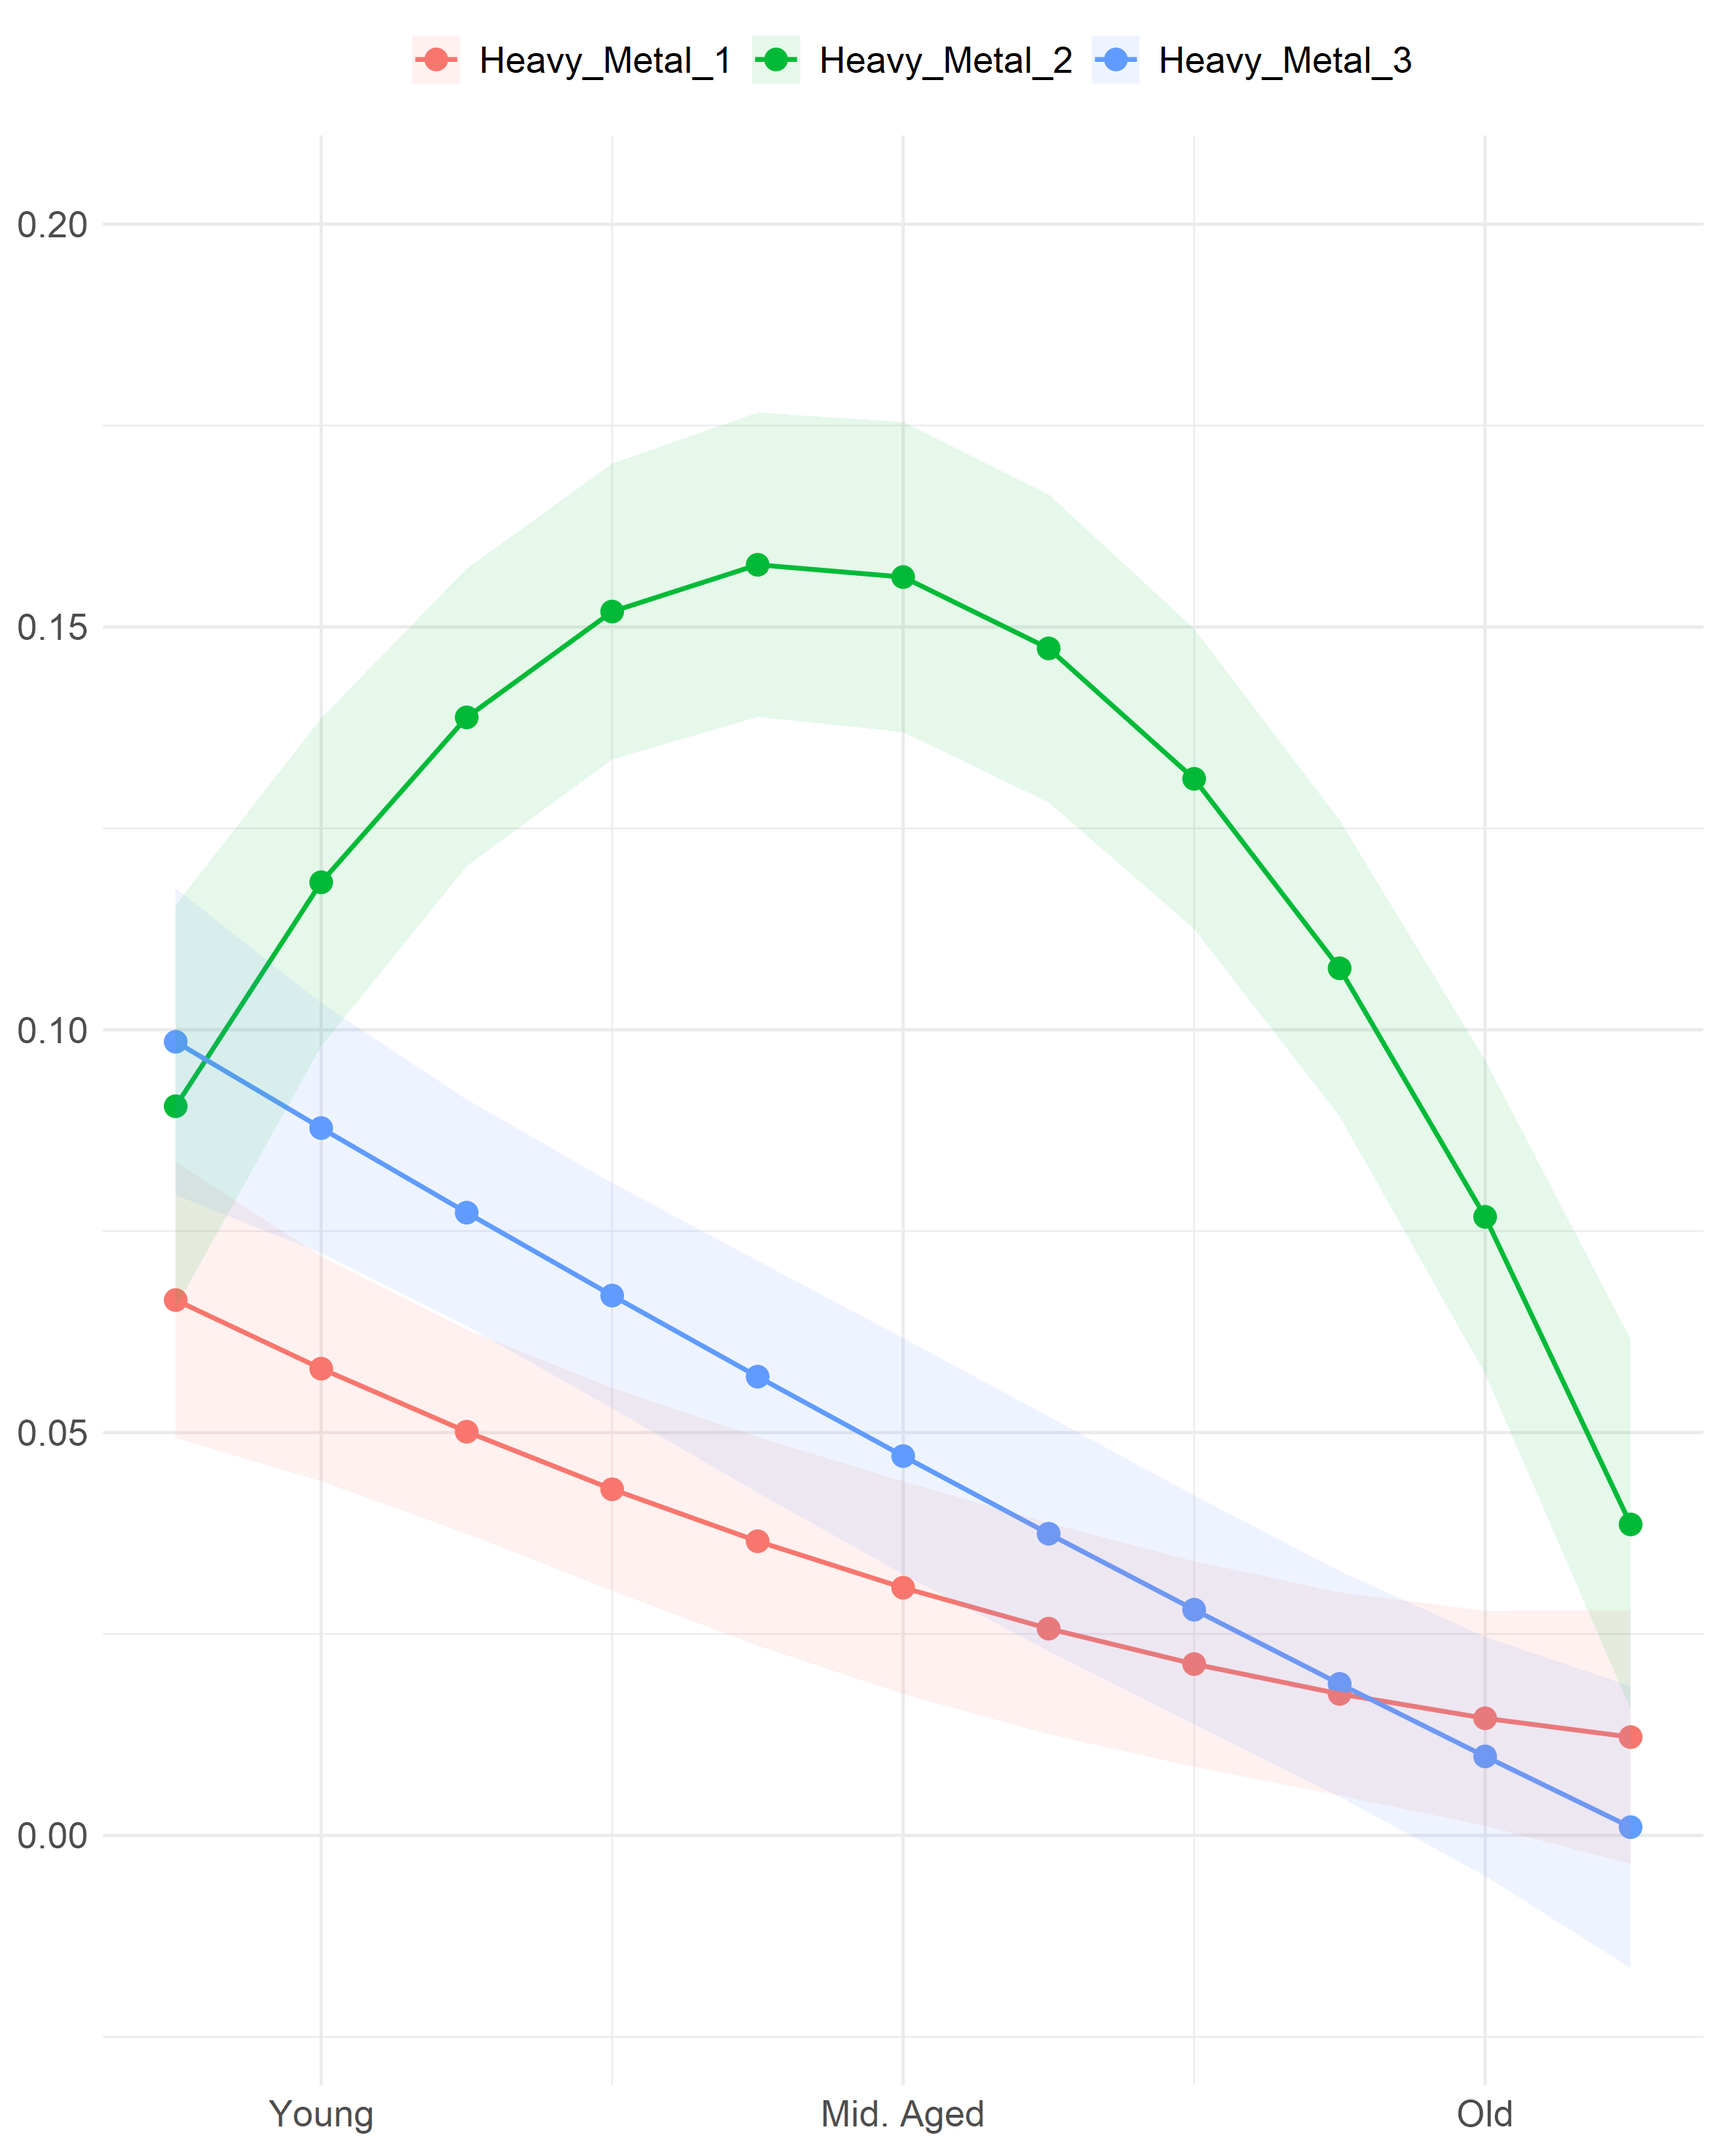
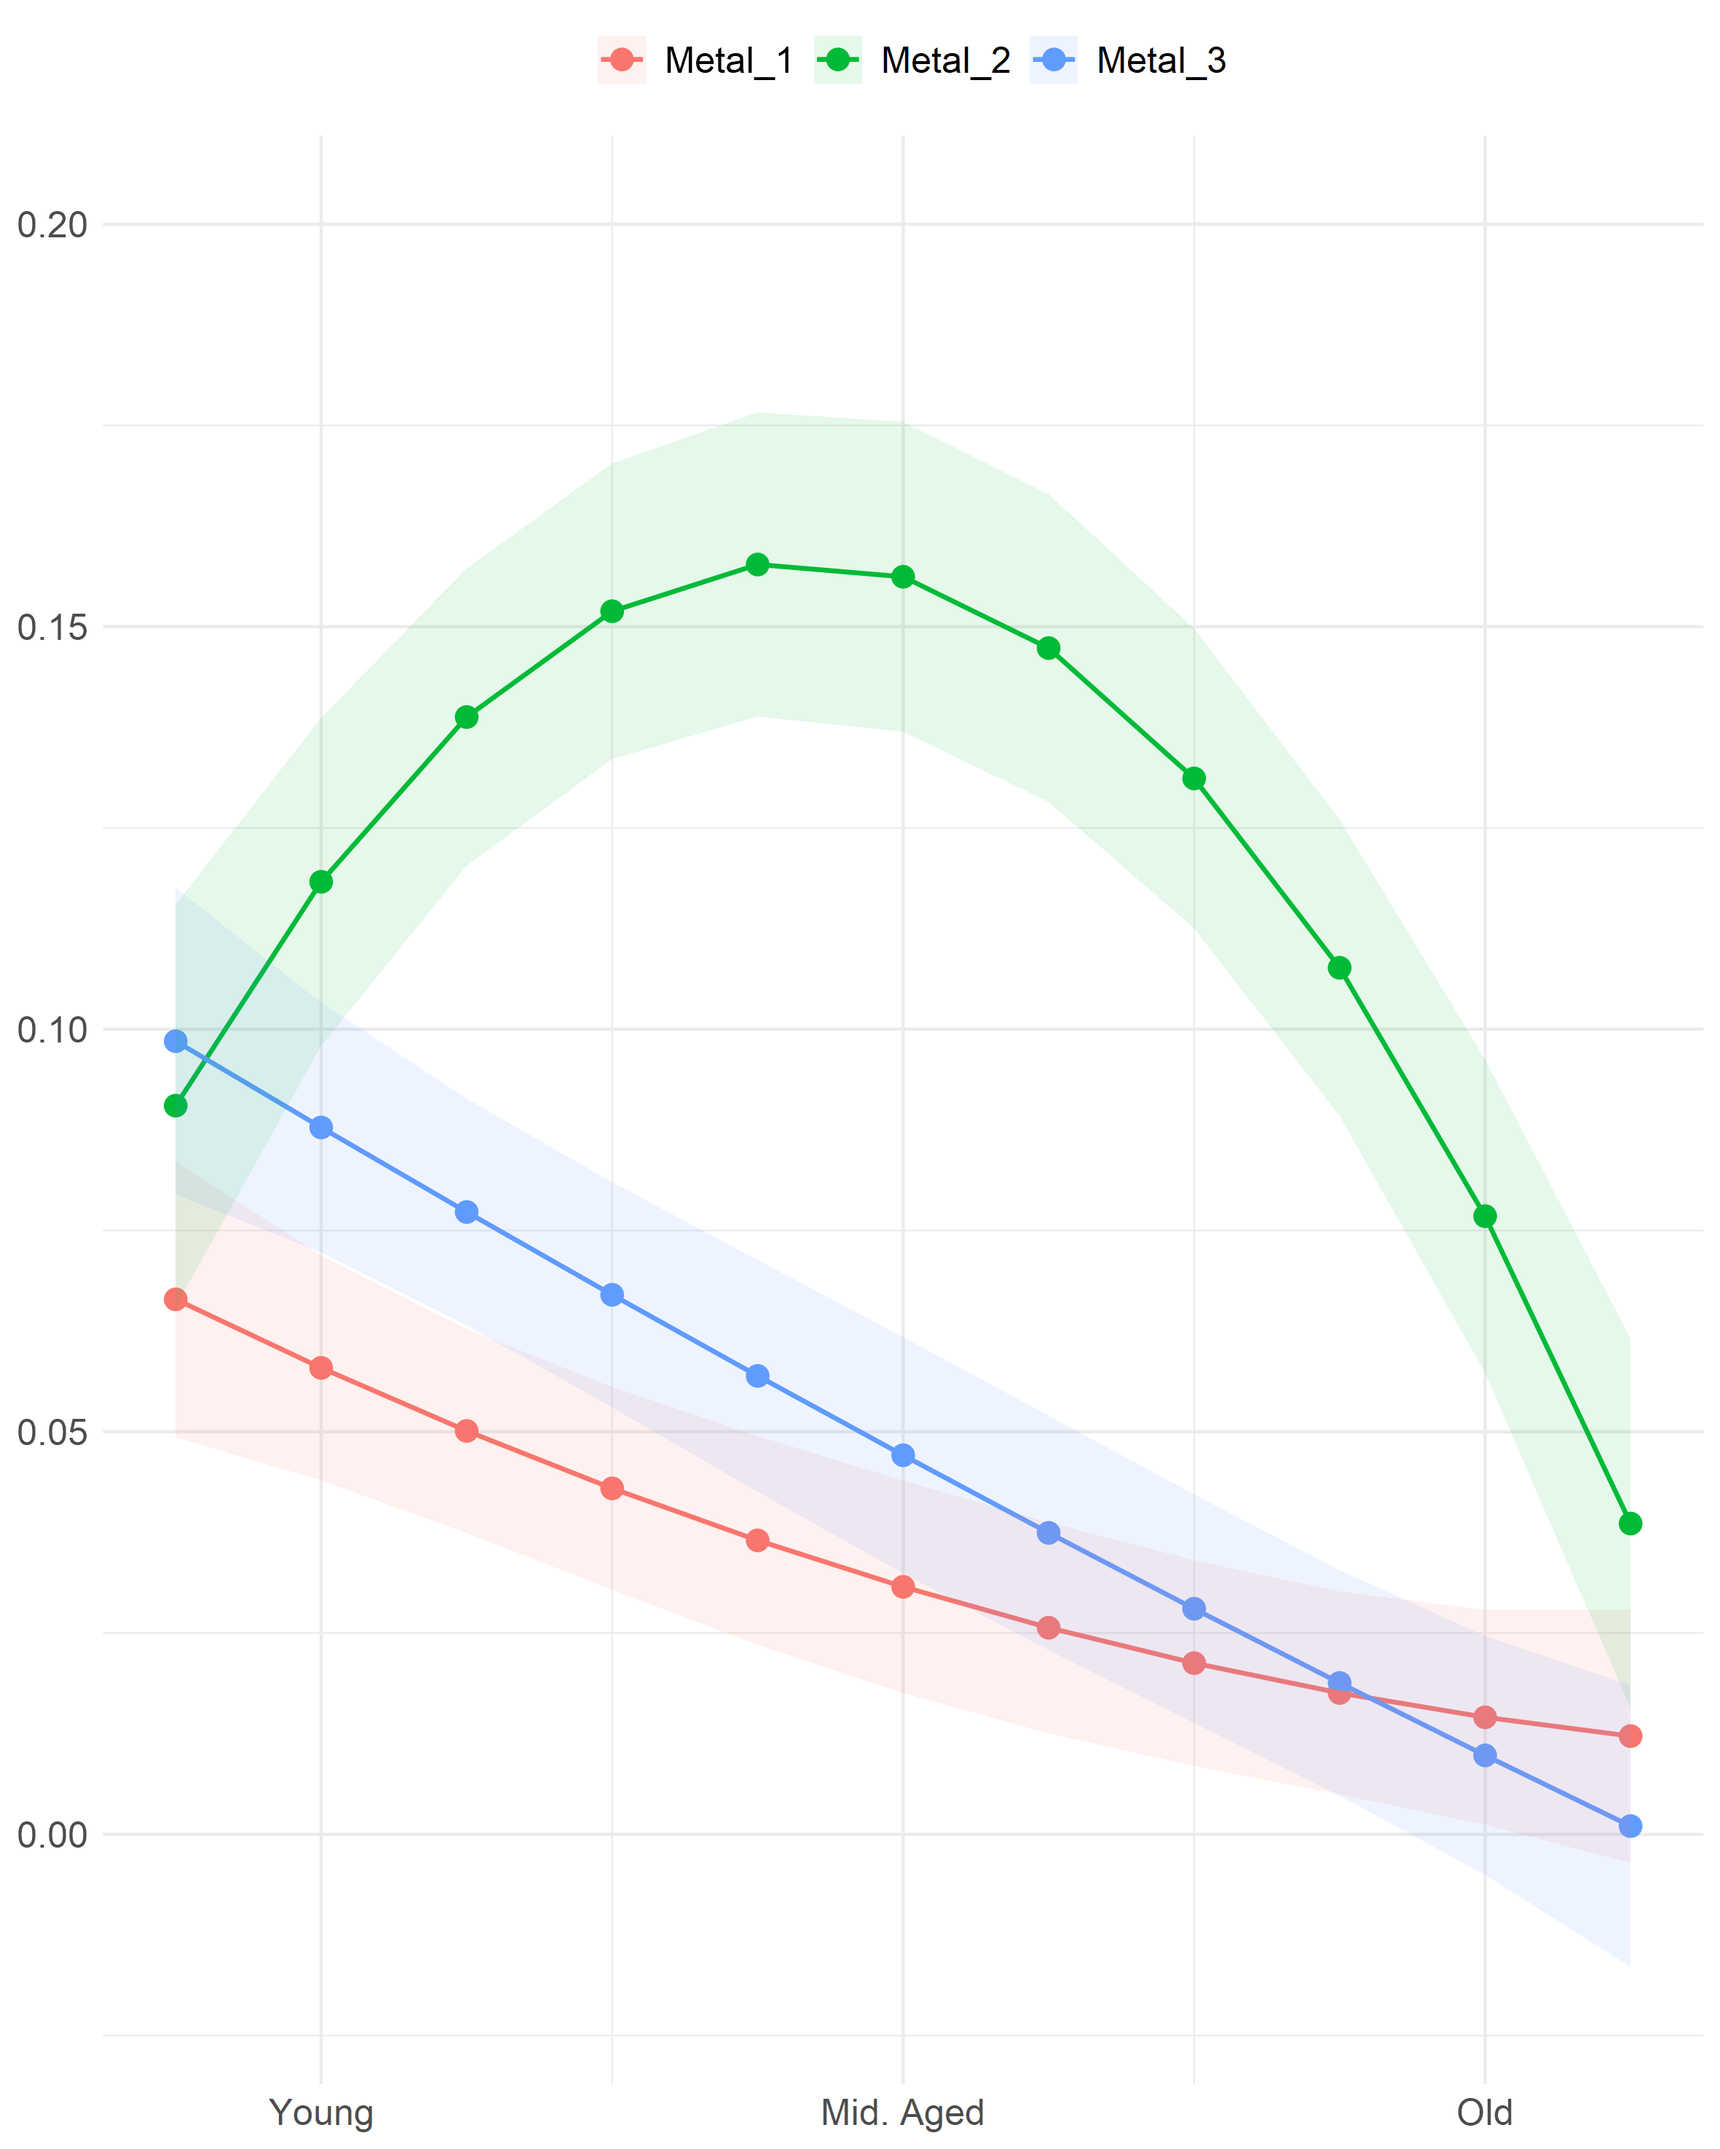
Updated everything

diff --git a/Tabs/reg-tab-metal.html b/Tabs/reg-tab-metal.html
@@ -1,10 +1,10 @@
 <table style="border-collapse:collapse; border:none;">
 <tr>
 <th style="border-top: double; text-align:center; font-style:normal; font-weight:bold; padding:0.2cm;  text-align:left; ">&nbsp;</th>
-<th colspan="2" style="border-top: double; text-align:center; font-style:normal; font-weight:bold; padding:0.2cm; ">Heavy_Metal</th>
-<th colspan="2" style="border-top: double; text-align:center; font-style:normal; font-weight:bold; padding:0.2cm; ">Heavy_Metal_1</th>
-<th colspan="2" style="border-top: double; text-align:center; font-style:normal; font-weight:bold; padding:0.2cm; ">Heavy_Metal_2</th>
-<th colspan="2" style="border-top: double; text-align:center; font-style:normal; font-weight:bold; padding:0.2cm; ">Heavy_Metal_3</th>
+<th colspan="2" style="border-top: double; text-align:center; font-style:normal; font-weight:bold; padding:0.2cm; ">Metal</th>
+<th colspan="2" style="border-top: double; text-align:center; font-style:normal; font-weight:bold; padding:0.2cm; ">Metal_1</th>
+<th colspan="2" style="border-top: double; text-align:center; font-style:normal; font-weight:bold; padding:0.2cm; ">Metal_2</th>
+<th colspan="2" style="border-top: double; text-align:center; font-style:normal; font-weight:bold; padding:0.2cm; ">Metal_3</th>
 </tr>
 <tr>
 <td style=" text-align:center; border-bottom:1px solid; font-style:italic; font-weight:normal;  text-align:left; ">Predictors</td>

diff --git a/Tabs/reg-tab-salsa.html b/Tabs/reg-tab-salsa.html
@@ -1,10 +1,10 @@
 <table style="border-collapse:collapse; border:none;">
 <tr>
 <th style="border-top: double; text-align:center; font-style:normal; font-weight:bold; padding:0.2cm;  text-align:left; ">&nbsp;</th>
-<th colspan="2" style="border-top: double; text-align:center; font-style:normal; font-weight:bold; padding:0.2cm; ">Latin</th>
-<th colspan="2" style="border-top: double; text-align:center; font-style:normal; font-weight:bold; padding:0.2cm; ">Latin_1</th>
-<th colspan="2" style="border-top: double; text-align:center; font-style:normal; font-weight:bold; padding:0.2cm; ">Latin_2</th>
-<th colspan="2" style="border-top: double; text-align:center; font-style:normal; font-weight:bold; padding:0.2cm; ">Latin_3</th>
+<th colspan="2" style="border-top: double; text-align:center; font-style:normal; font-weight:bold; padding:0.2cm; ">Salsa</th>
+<th colspan="2" style="border-top: double; text-align:center; font-style:normal; font-weight:bold; padding:0.2cm; ">Salsa_1</th>
+<th colspan="2" style="border-top: double; text-align:center; font-style:normal; font-weight:bold; padding:0.2cm; ">Salsa_2</th>
+<th colspan="2" style="border-top: double; text-align:center; font-style:normal; font-weight:bold; padding:0.2cm; ">Salsa_3</th>
 </tr>
 <tr>
 <td style=" text-align:center; border-bottom:1px solid; font-style:italic; font-weight:normal;  text-align:left; ">Predictors</td>
